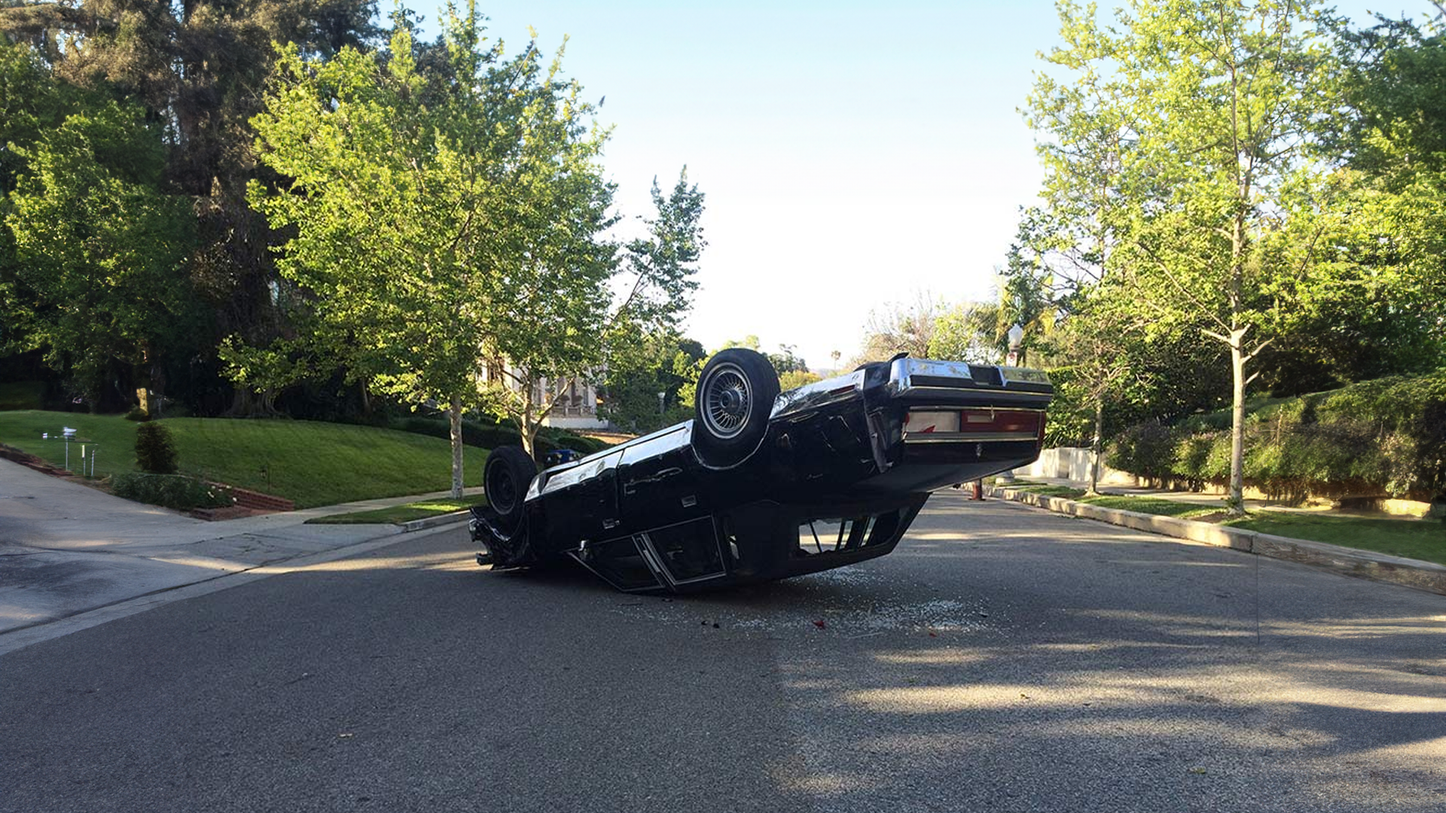
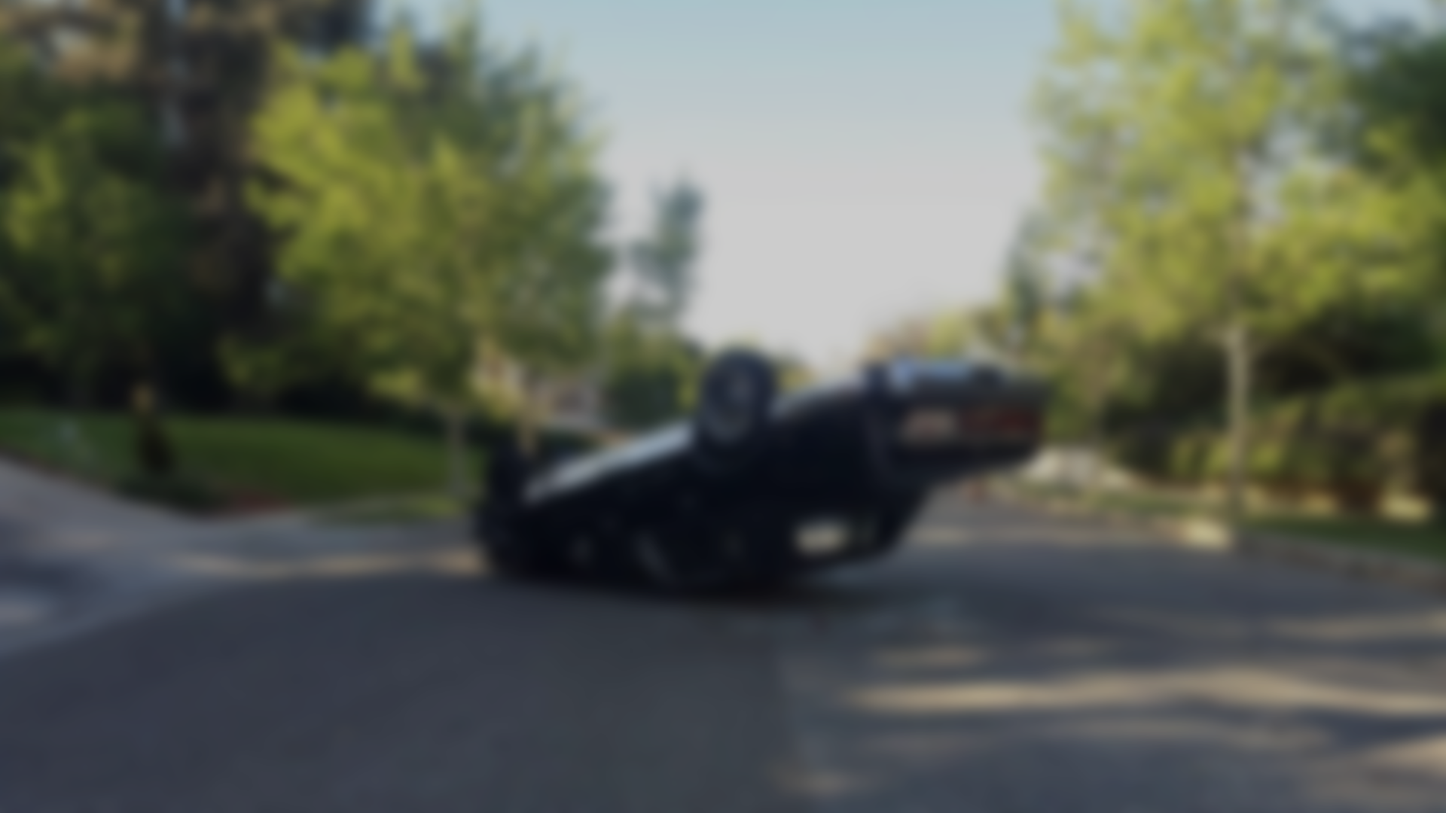
Darkened image and made background also added outlines an fixed an issue with the static not covering entire canvas
reordered hisotry drawsers s othe outlines would ne same

diff --git a/music_starter.js b/music_starter.js
@@ -5,6 +5,9 @@ let drum_history = [];
 let bass_history = [];
 let other_history = [];
 
+let Background;
+let firstRun = true
+
 // function that adds the values from words, voca, drum, bass and other into the empty arrays above each frame
 function add_to_history(history, d) {// this function is based of the framework from the fucntion of the same name in the music_history visualiser example/statrer option
   history.push(d);// pushes the value from the words, vocal, drum, bass or other channel into its specified array based off of the history and d variables
@@ -16,17 +19,26 @@ function add_to_history(history, d) {// this function is based of the framework 
 // vocal, drum, bass, and other are volumes ranging from 0 to 100
 function draw_one_frame(words, vocal, drum, bass, other, counter) {
 
+  //background image
+  if(firstRun){
+    Background = loadImage('Background.png');
+      firstRun = false
+  }
+
+  image(Background,0,0);
+noStroke();
 //noise grid function used to draw the static noise in the beginning
   function generateNoiseGrid(gridSize) {// gridSize is the dimensions in pixels of each of the squares in the static noise backgorund
-    for (let x = 0; x < width; x += gridSize) {// for loop that outputs the x coordinate for each column
-      for (let y = 0; y < height; y += gridSize) {// for loop that outputs the y coordinate for each row
+    for (let x = 0; x <= width; x += gridSize) {// for loop that outputs the x coordinate for each column
+      for (let y = 0; y <= height; y += gridSize) {// for loop that outputs the y coordinate for each row
         let fillColour = map(random(),0.5,0.50000000000000000001,0,255); // if(){} statement disguised as a map(); to randomly output 0 or 255 for black and white for the static noise background
         fill(fillColour);// uses if statment diguised as a map from above to randomly assign either black or white fill to each sqaure in the staic noise grid each frame
         rect(x, y, gridSize, gridSize);// draws each of the squares in the static noise background in the grid in the coordinate outputted from the for loops
       }
     }
   }
-
+  strokeWeight(1);
+  stroke(200,200,200,135);
   //these two functions are no longer in use but are the orginal framework that the circular musci hisotyr visualser is based off of
   function donutVisual(centerX, centerY,circleRadius,min,max){
   
@@ -96,7 +108,6 @@ function draw_one_frame(words, vocal, drum, bass, other, counter) {
   }
 
   // console.log(counter) 
-  background(150)
   textFont('Verdana'); // please use CSS safe fonts
   rectMode(CENTER)
   textSize(24);
@@ -127,12 +138,12 @@ let sizeAdd = 0
     sizeAdd = 0
   }
   donutHistoryAntiClockWise(canvasX/2,canvasY/2,600+sizeAdd,vocal_history,180,0);
-  donutHistoryAntiClockWise(canvasX/2,canvasY/2,600+sizeAdd,drum_history,180,180);
-  donutHistoryAntiClockWise(canvasX/2,canvasY/2,600+sizeAdd,bass_history,180,0);
-  donutHistoryAntiClockWise(canvasX/2,canvasY/2,600+sizeAdd,other_history,180,180);
   donutHistoryClockWise(canvasX/2,canvasY/2,600+sizeAdd,vocal_history,180,0);
+  donutHistoryAntiClockWise(canvasX/2,canvasY/2,600+sizeAdd,other_history,180,180);
   donutHistoryClockWise(canvasX/2,canvasY/2,600+sizeAdd,drum_history,180,180);
+  donutHistoryAntiClockWise(canvasX/2,canvasY/2,600+sizeAdd,drum_history,180,180);
   donutHistoryClockWise(canvasX/2,canvasY/2,600+sizeAdd,bass_history,180,0);
+  donutHistoryAntiClockWise(canvasX/2,canvasY/2,600+sizeAdd,bass_history,180,0);
   donutHistoryClockWise(canvasX/2,canvasY/2,600+sizeAdd,other_history,180,180);
 }
 
@@ -157,12 +168,12 @@ if(counter >= 2640-120 && counter <= 2640){
     let ZeroToOneEighty = map(counter,2640-120,2640,0,180);
     let OneEightyToZero = map(counter,2640-120,2640,180,0);
     donutHistoryAntiClockWise(xToZero,canvasY/2,sizetrans+sizeAdd,vocal_history,180,ZeroToOneEighty);
-    donutHistoryAntiClockWise(x2Tox,canvasY/2,sizetrans+sizeAdd,drum_history,180,OneEightyToZero);
-    donutHistoryAntiClockWise(xToZero,canvasY/2,sizetrans+sizeAdd,bass_history,180,ZeroToOneEighty);
-    donutHistoryAntiClockWise(x2Tox,canvasY/2,sizetrans+sizeAdd,other_history,180,OneEightyToZero);
     donutHistoryClockWise(x2Tox,canvasY/2,sizetrans+sizeAdd,vocal_history,180,ZeroToOneEighty);
+    donutHistoryAntiClockWise(x2Tox,canvasY/2,sizetrans+sizeAdd,drum_history,180,OneEightyToZero);
     donutHistoryClockWise(xToZero,canvasY/2,sizetrans+sizeAdd,drum_history,180,OneEightyToZero);
+    donutHistoryAntiClockWise(xToZero,canvasY/2,sizetrans+sizeAdd,bass_history,180,ZeroToOneEighty);
     donutHistoryClockWise(x2Tox,canvasY/2,sizetrans+sizeAdd,bass_history,180,ZeroToOneEighty);
+    donutHistoryAntiClockWise(x2Tox,canvasY/2,sizetrans+sizeAdd,other_history,180,OneEightyToZero);
     donutHistoryClockWise(xToZero,canvasY/2,sizetrans+sizeAdd,other_history,180,OneEightyToZero);
 }
 // animation section four into five
@@ -180,12 +191,12 @@ if(counter >= 6900-120 && counter <= 6900){
     let ZeroToOneEighty = map(counter,6900-120,6900,0,180);
     let OneEightyToZero = map(counter,6900-120,6900,180,0);
     donutHistoryAntiClockWise(xToZero,canvasY/2,sizetrans+sizeAdd,vocal_history,180,ZeroToOneEighty);
-    donutHistoryAntiClockWise(x2Tox,canvasY/2,sizetrans+sizeAdd,drum_history,180,OneEightyToZero);
-    donutHistoryAntiClockWise(xToZero,canvasY/2,sizetrans+sizeAdd,bass_history,180,ZeroToOneEighty);
-    donutHistoryAntiClockWise(x2Tox,canvasY/2,sizetrans+sizeAdd,other_history,180,OneEightyToZero);
     donutHistoryClockWise(x2Tox,canvasY/2,sizetrans+sizeAdd,vocal_history,180,ZeroToOneEighty);
+    donutHistoryAntiClockWise(xToZero,canvasY/2,sizetrans+sizeAdd,bass_history,180,ZeroToOneEighty);
     donutHistoryClockWise(xToZero,canvasY/2,sizetrans+sizeAdd,drum_history,180,OneEightyToZero);
+    donutHistoryAntiClockWise(x2Tox,canvasY/2,sizetrans+sizeAdd,other_history,180,OneEightyToZero);
     donutHistoryClockWise(x2Tox,canvasY/2,sizetrans+sizeAdd,bass_history,180,ZeroToOneEighty);
+    donutHistoryAntiClockWise(x2Tox,canvasY/2,sizetrans+sizeAdd,drum_history,180,OneEightyToZero);
     donutHistoryClockWise(xToZero,canvasY/2,sizetrans+sizeAdd,other_history,180,OneEightyToZero);
 }
 // animation section six into seven
@@ -203,12 +214,12 @@ if(counter >= 10920-120 && counter <= 10920){
     let ZeroToOneEighty = map(counter,10920-120,10920,0,180);
     let OneEightyToZero = map(counter,10920-120,10920,180,0);
     donutHistoryAntiClockWise(xToZero,canvasY/2,sizetrans+sizeAdd,vocal_history,180,ZeroToOneEighty);
-    donutHistoryAntiClockWise(x2Tox,canvasY/2,sizetrans+sizeAdd,drum_history,180,OneEightyToZero);
-    donutHistoryAntiClockWise(xToZero,canvasY/2,sizetrans+sizeAdd,bass_history,180,ZeroToOneEighty);
-    donutHistoryAntiClockWise(x2Tox,canvasY/2,sizetrans+sizeAdd,other_history,180,OneEightyToZero);
     donutHistoryClockWise(x2Tox,canvasY/2,sizetrans+sizeAdd,vocal_history,180,ZeroToOneEighty);
+    donutHistoryAntiClockWise(x2Tox,canvasY/2,sizetrans+sizeAdd,drum_history,180,OneEightyToZero);
     donutHistoryClockWise(xToZero,canvasY/2,sizetrans+sizeAdd,drum_history,180,OneEightyToZero);
+    donutHistoryAntiClockWise(xToZero,canvasY/2,sizetrans+sizeAdd,bass_history,180,ZeroToOneEighty);
     donutHistoryClockWise(x2Tox,canvasY/2,sizetrans+sizeAdd,bass_history,180,ZeroToOneEighty);
+    donutHistoryAntiClockWise(x2Tox,canvasY/2,sizetrans+sizeAdd,other_history,180,OneEightyToZero);
     donutHistoryClockWise(xToZero,canvasY/2,sizetrans+sizeAdd,other_history,180,OneEightyToZero);
 }
 
@@ -221,14 +232,14 @@ let sizeAdd = 0
   }else{
     sizeAdd = 0  
   }
-  donutHistoryAntiClockWise(0,canvasY/2,900+sizeAdd,vocal_history,180,180);
-  donutHistoryAntiClockWise(canvasX,canvasY/2,900+sizeAdd,drum_history,180,0);
-  donutHistoryAntiClockWise(0,canvasY/2,900+sizeAdd,bass_history,180,180);
-  donutHistoryAntiClockWise(canvasX,canvasY/2,900+sizeAdd,other_history,180,0);
   donutHistoryClockWise(canvasX,canvasY/2,900+sizeAdd,vocal_history,180,180);
+  donutHistoryAntiClockWise(0,canvasY/2,900+sizeAdd,vocal_history,180,180);
   donutHistoryClockWise(0,canvasY/2,900+sizeAdd,drum_history,180,0);
+  donutHistoryAntiClockWise(canvasX,canvasY/2,900+sizeAdd,drum_history,180,0);
   donutHistoryClockWise(canvasX,canvasY/2,900+sizeAdd,bass_history,180,180);
+  donutHistoryAntiClockWise(0,canvasY/2,900+sizeAdd,bass_history,180,180);
   donutHistoryClockWise(0,canvasY/2,900+sizeAdd,other_history,180,0);
+  donutHistoryAntiClockWise(canvasX,canvasY/2,900+sizeAdd,other_history,180,0);
 }
 
 // transtiion animations out of the above sections
@@ -253,12 +264,12 @@ if(counter >= 4740-120 && counter <= 4740){
     let ZeroToOneEighty = map(counter,4740-120,4740,180,0);
     let OneEightyToZero = map(counter,4740-120,4740,0,180);
     donutHistoryAntiClockWise(xToZero,canvasY/2,sizetrans+sizeAdd,vocal_history,180,ZeroToOneEighty);
-    donutHistoryAntiClockWise(x2Tox,canvasY/2,sizetrans+sizeAdd,drum_history,180,OneEightyToZero);
-    donutHistoryAntiClockWise(xToZero,canvasY/2,sizetrans+sizeAdd,bass_history,180,ZeroToOneEighty);
-    donutHistoryAntiClockWise(x2Tox,canvasY/2,sizetrans+sizeAdd,other_history,180,OneEightyToZero);
     donutHistoryClockWise(x2Tox,canvasY/2,sizetrans+sizeAdd,vocal_history,180,ZeroToOneEighty);
+    donutHistoryAntiClockWise(x2Tox,canvasY/2,sizetrans+sizeAdd,drum_history,180,OneEightyToZero);
     donutHistoryClockWise(xToZero,canvasY/2,sizetrans+sizeAdd,drum_history,180,OneEightyToZero);
+    donutHistoryAntiClockWise(xToZero,canvasY/2,sizetrans+sizeAdd,bass_history,180,ZeroToOneEighty);
     donutHistoryClockWise(x2Tox,canvasY/2,sizetrans+sizeAdd,bass_history,180,ZeroToOneEighty);
+    donutHistoryAntiClockWise(x2Tox,canvasY/2,sizetrans+sizeAdd,other_history,180,OneEightyToZero);
     donutHistoryClockWise(xToZero,canvasY/2,sizetrans+sizeAdd,other_history,180,OneEightyToZero);
   
 }
@@ -278,12 +289,12 @@ if(counter >= 8940-120 && counter <= 8940){
     let ZeroToOneEighty = map(counter,8940-120,8940,180,0);
     let OneEightyToZero = map(counter,8940-120,8940,0,180);
     donutHistoryAntiClockWise(xToZero,canvasY/2,sizetrans+sizeAdd,vocal_history,180,ZeroToOneEighty);
-    donutHistoryAntiClockWise(x2Tox,canvasY/2,sizetrans+sizeAdd,drum_history,180,OneEightyToZero);
-    donutHistoryAntiClockWise(xToZero,canvasY/2,sizetrans+sizeAdd,bass_history,180,ZeroToOneEighty);
-    donutHistoryAntiClockWise(x2Tox,canvasY/2,sizetrans+sizeAdd,other_history,180,OneEightyToZero);
     donutHistoryClockWise(x2Tox,canvasY/2,sizetrans+sizeAdd,vocal_history,180,ZeroToOneEighty);
+    donutHistoryAntiClockWise(x2Tox,canvasY/2,sizetrans+sizeAdd,drum_history,180,OneEightyToZero);
     donutHistoryClockWise(xToZero,canvasY/2,sizetrans+sizeAdd,drum_history,180,OneEightyToZero);
+    donutHistoryAntiClockWise(xToZero,canvasY/2,sizetrans+sizeAdd,bass_history,180,ZeroToOneEighty);
     donutHistoryClockWise(x2Tox,canvasY/2,sizetrans+sizeAdd,bass_history,180,ZeroToOneEighty);
+    donutHistoryAntiClockWise(x2Tox,canvasY/2,sizetrans+sizeAdd,other_history,180,OneEightyToZero);
     donutHistoryClockWise(xToZero,canvasY/2,sizetrans+sizeAdd,other_history,180,OneEightyToZero);
   
 }
@@ -303,12 +314,12 @@ if(counter >= 12960-120 && counter <= 12960){
     let ZeroToOneEighty = map(counter,12960-120,12960,180,0);
     let OneEightyToZero = map(counter,12960-120,12960,0,180);
     donutHistoryAntiClockWise(xToZero,canvasY/2,sizetrans+sizeAdd,vocal_history,180,ZeroToOneEighty);
-    donutHistoryAntiClockWise(x2Tox,canvasY/2,sizetrans+sizeAdd,drum_history,180,OneEightyToZero);
-    donutHistoryAntiClockWise(xToZero,canvasY/2,sizetrans+sizeAdd,bass_history,180,ZeroToOneEighty);
-    donutHistoryAntiClockWise(x2Tox,canvasY/2,sizetrans+sizeAdd,other_history,180,OneEightyToZero);
     donutHistoryClockWise(x2Tox,canvasY/2,sizetrans+sizeAdd,vocal_history,180,ZeroToOneEighty);
+    donutHistoryAntiClockWise(x2Tox,canvasY/2,sizetrans+sizeAdd,drum_history,180,OneEightyToZero);
     donutHistoryClockWise(xToZero,canvasY/2,sizetrans+sizeAdd,drum_history,180,OneEightyToZero);
+    donutHistoryAntiClockWise(xToZero,canvasY/2,sizetrans+sizeAdd,bass_history,180,ZeroToOneEighty);
     donutHistoryClockWise(x2Tox,canvasY/2,sizetrans+sizeAdd,bass_history,180,ZeroToOneEighty);
+    donutHistoryAntiClockWise(x2Tox,canvasY/2,sizetrans+sizeAdd,other_history,180,OneEightyToZero);
     donutHistoryClockWise(xToZero,canvasY/2,sizetrans+sizeAdd,other_history,180,OneEightyToZero);
   
 }
@@ -317,12 +328,12 @@ if(counter >= 12960-120 && counter <= 12960){
 if(counter >= 12960){
   let sizeFade = map(counter,12960,14051,600,0);
     donutHistoryAntiClockWise(canvasX/2,canvasY/2,sizeFade,vocal_history,180,0);
-    donutHistoryAntiClockWise(canvasX/2,canvasY/2,sizeFade,drum_history,180,180);
-    donutHistoryAntiClockWise(canvasX/2,canvasY/2,sizeFade,bass_history,180,0);
-    donutHistoryAntiClockWise(canvasX/2,canvasY/2,sizeFade,other_history,180,180);
     donutHistoryClockWise(canvasX/2,canvasY/2,sizeFade,vocal_history,180,0);
+    donutHistoryAntiClockWise(canvasX/2,canvasY/2,sizeFade,drum_history,180,180);
     donutHistoryClockWise(canvasX/2,canvasY/2,sizeFade,drum_history,180,180);
+    donutHistoryAntiClockWise(canvasX/2,canvasY/2,sizeFade,bass_history,180,0);
     donutHistoryClockWise(canvasX/2,canvasY/2,sizeFade,bass_history,180,0);
+    donutHistoryAntiClockWise(canvasX/2,canvasY/2,sizeFade,other_history,180,180);
     donutHistoryClockWise(canvasX/2,canvasY/2,sizeFade,other_history,180,180);
 }
 
